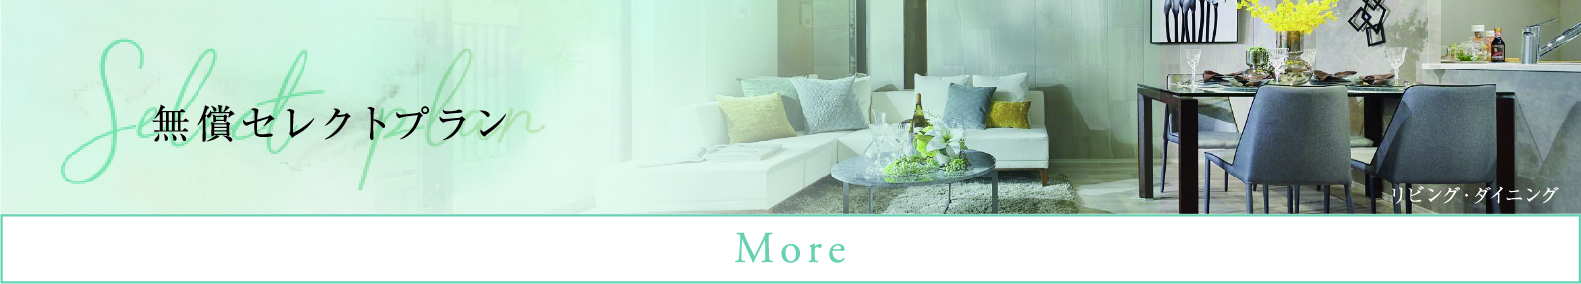
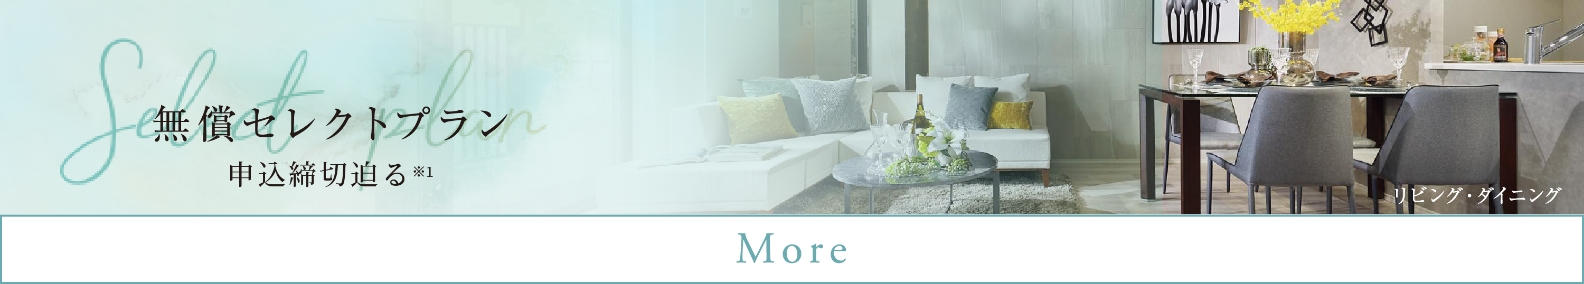
no message

diff --git a/modelroom.html b/modelroom.html
@@ -452,7 +452,7 @@
 <section class="pageLeadArea">
                     <div class="wrap" data-aos="fade-up">
                         <h2 class="head--02">
-						多様化するライフスタイルに<br class="sp">応えるセレクトプラン<br>
+						多様化するライフスタイルに<br class="sp">応えるセレクトプラン<br>申込締切迫る<br>
 							（期間限定・無償）
 						</h2>
                         <p class="lowTxt2">
@@ -526,7 +526,7 @@
     <div class="summaryArea">
         <div class="wrap">
 
-            <p class="footerCap">※掲載の写真は、モデルルーム(Hタイプ/カラーセレクト:Wellness Greige)を撮影(2022年9月)したもので、エアコン・造作家具・アクセントクロス・照明・装飾用小物等オプション(有償)も含まれております。 また、家具・調度品等は販売価額に含まれておりません。住戸により一部仕様が異なります。各種セレクトおよびオプション(有償)には申し込み期限がございます。</p>
+            <p class="footerCap">※1.セレクトプランの申込期限は2023年2月～5月上旬となりますが、階数・住戸により異なります。詳しくは係員にお尋ねください。<br>※掲載の写真は、モデルルーム(Hタイプ/カラーセレクト:Wellness Greige)を撮影(2022年9月)したもので、エアコン・造作家具・アクセントクロス・照明・装飾用小物等オプション(有償)も含まれております。 また、家具・調度品等は販売価額に含まれておりません。住戸により一部仕様が異なります。各種セレクトおよびオプション(有償)には申し込み期限がございます。</p>
 
 
             <div class="summary">

diff --git a/select.html b/select.html
@@ -323,7 +323,7 @@
                         <h2  data-aos="fade-up">
                             <img class="" src="./images/select/img-kv-ttl.png" alt="Select plan">
 
-                            ［無償・期間限定］<br><span>申込締切迫る<sup>※1</sup></span>
+                            <span>申込締切迫る<sup>※1</sup></span><br>［無償・期間限定］
                         </h2>
                         <p class="p1" data-aos="fade-up">
                             ライフスタイルに合わせて選べる<br class="sp">4つの無償セレクトをご用意。<br>

diff --git a/css/select.css b/css/select.css
@@ -69,6 +69,14 @@
 }
 
 #select .pagetitle span{
+    font-size: 28px;
+}
+#select .pagetitle span sup{
+    font-size: 10px;
+    vertical-align: super;
+}
+/*
+#select .pagetitle span{
     position: relative;
     display: inline-block;
     padding:  0 30px;
@@ -92,6 +100,7 @@
 #select .pagetitle span::after{
     right: 0;
 }
+*/
 
 @media screen and (max-width: 584px) {
     #select .pagetitle h2 img {
